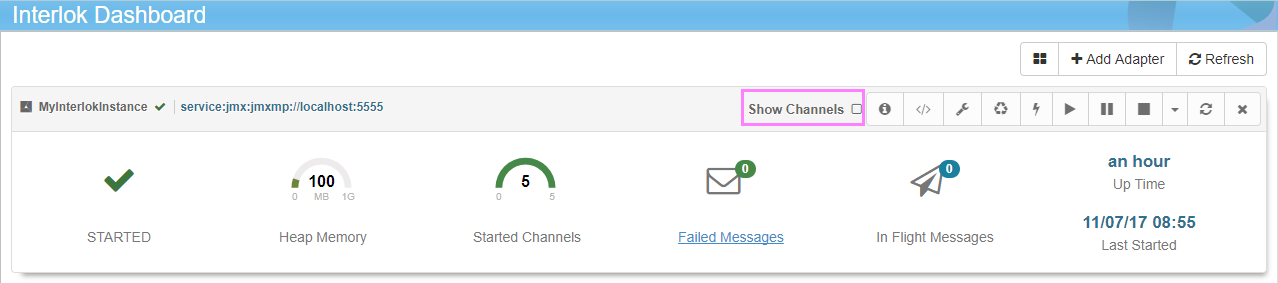
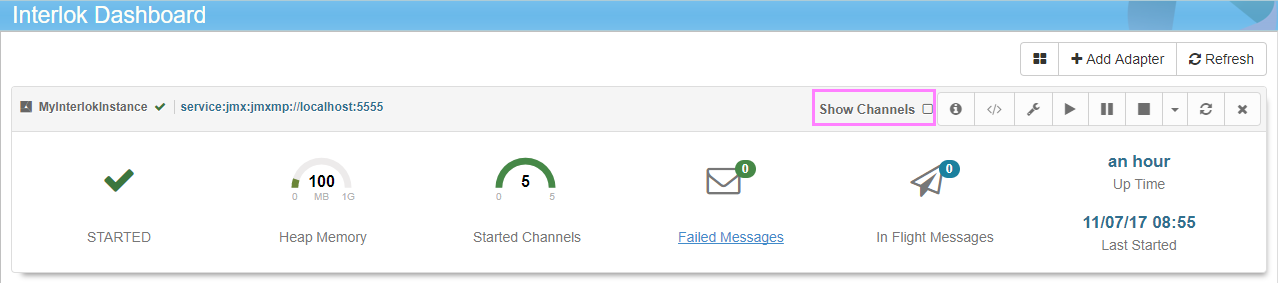
Update pictures of the menu and dashboard page to match the look of version 3.8.3

Changed region(s): [[0.5798, 0.311, 0.8239, 0.4523], [0.5798, 0.311, 0.6408, 0.3392]]

diff --git a/pages/ui/ui-dashboard.md b/pages/ui/ui-dashboard.md
@@ -48,12 +48,12 @@ The Dashboard Page with annotations shows the various parts of the Dashboard Pag
 | ![Dashboard Adapter Control Info](./images/ui-user-guide/dashboard-adapter-control-info.png) | Show the Adapter Information (Version, Java and OS)
 | ![Dashboard Adapter Control Show Config](./images/ui-user-guide/dashboard-adapter-control-config.png) | Show the Adapter configuration (xml and diagram)
 | ![Dashboard Adapter Control Edit Config](./images/ui-user-guide/dashboard-adapter-control-edit-config.png) | Edit the Adapter configuration (in the config page)
-| ![Dashboard Adapter Control Garbage Collect](./images/ui-user-guide/gc-button-icon.png) | Request a Java Garbage Collection on the Adapter
-| ![Dashboard Adapter Control Thread Dump](./images/ui-user-guide/dashboard-adapter-control-thread-dump.png) | Generate a thread dump on the Adapter
 | ![Dashboard Adapter Control Start](./images/ui-user-guide/dashboard-adapter-control-start.png) | Start the Adapter
 | ![Dashboard Adapter Control Pause](./images/ui-user-guide/dashboard-adapter-control-pause.png) | Pause this Adapter from processing messages and allow it to retain any connections it has already initialised
 | ![Dashboard Adapter Control Stop](./images/ui-user-guide/dashboard-adapter-control-stop.png) | Stop this Adapter and free up any resources that it has used
 | ![Dashboard Adapter Control Force Stop](./images/ui-user-guide/dashboard-adapter-control-force-stop.png) | Under the Stop dropdown. Force Stop this Adapter (doesn't wait for services to finish) and free up any resources that it has used.
+| ![Dashboard Adapter Control Garbage Collect](./images/ui-user-guide/gc-button-icon.png) | Under the Stop dropdown. Request a Java Garbage Collection on the Adapter
+| ![Dashboard Adapter Control Thread Dump](./images/ui-user-guide/dashboard-adapter-control-thread-dump.png) | Under the Stop dropdown. Generate a thread dump on the Adapter
 | ![Dashboard Adapter Control Reload From Vcs](./images/ui-user-guide/dashboard-adapter-control-reload-from-vcs.png) | Under the Stop dropdown. Reload this Adapter configuration from Vcs and restart it. Only available for User and Admin users and if [version control](advanced-version-control.html#version-control-configuration) is configured for this Adapter. (Since 3.3)
 | ![Dashboard Adapter Control Support Pack](./images/ui-user-guide/dashboard-adapter-control-support-pack.png) | Under the Stop dropdown. Download a support pack containing log files and information about this Adapter. (Since 3.3)
 | ![Dashboard Adapter Control Edit Adapter](./images/ui-user-guide/dashboard-adapter-control-edit-adapter.png) | Under the Stop dropdown. Edit and Adapter name or tags. (Since 3.7.3)
